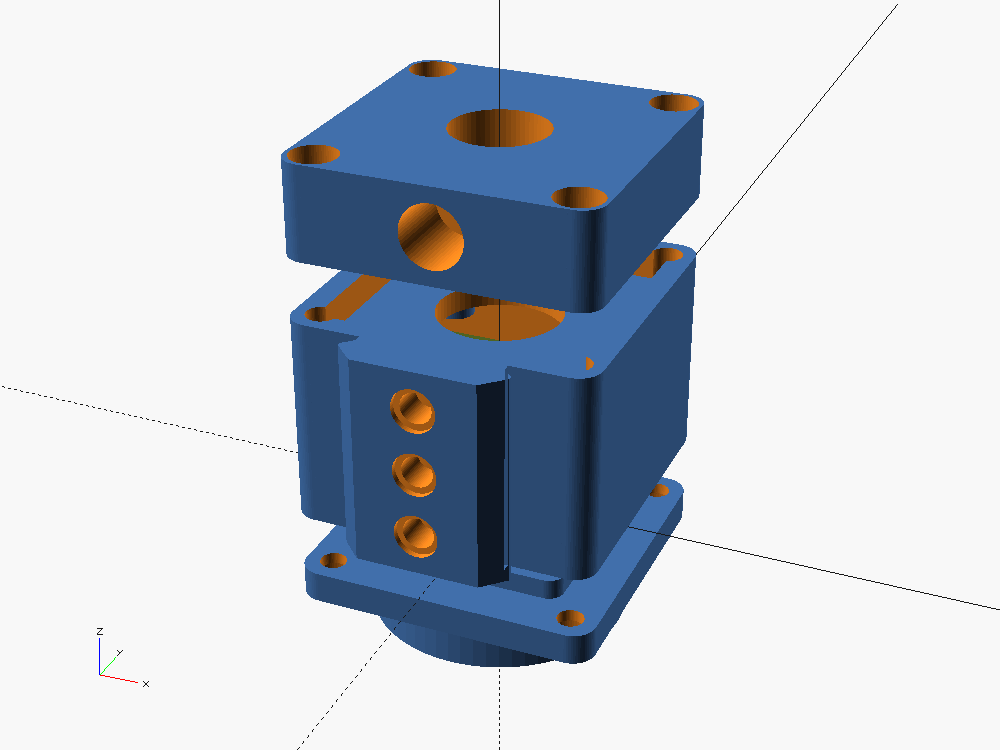
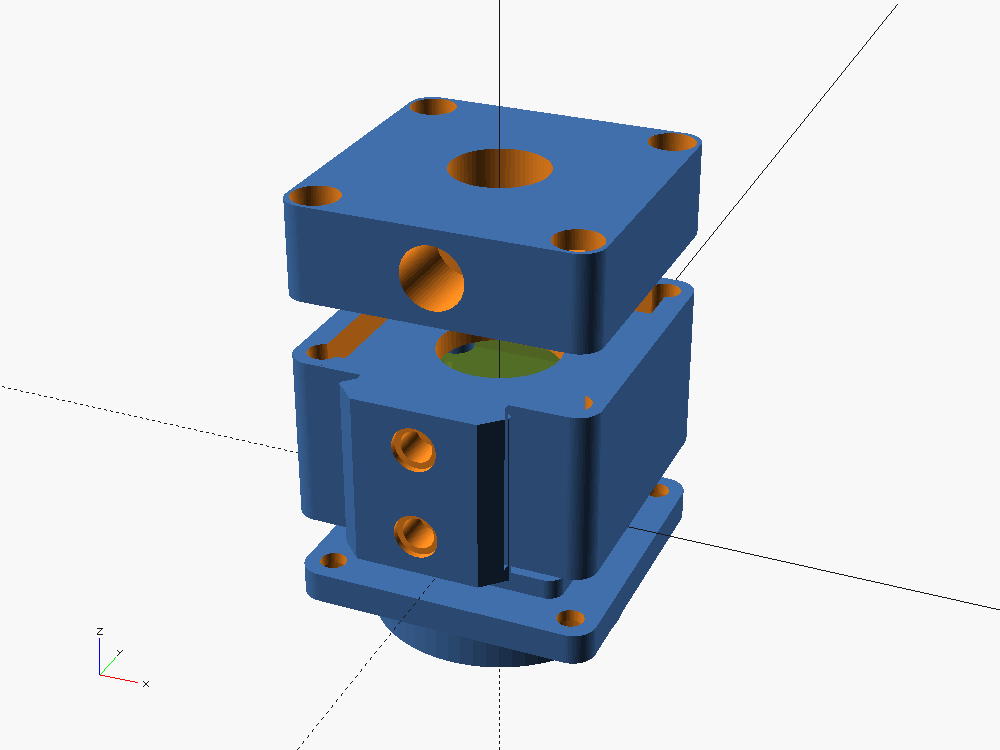
fix: variant TOML overrides never reached the geometry
Generated variant stubs do `include params -> re-assign the TOML params ->
include dispatch`, but dispatch.scad pulls part modules with `use <body.scad>`
and each part file self-includes params.scad. OpenSCAD resolves a used
module's free variables against its own definition scope, so the parts always
saw params.scad DEFAULTS, not the stub's overrides.

`params.scad`'s echo() runs in the stub scope and printed the right numbers,
which masked it. `-D` on the CLI is applied globally and does reach used
modules. `make check` only passed `-D part=...`, so it never caught this.

Impact:
- generic_29mm_cs body rendered at the C-mount length (26.626, should be
  21.626) — every CS build's back-focus stack was 5 mm out.
- generic_29mm_c_ring rendered a printed thread instead of the captured-ring
  pocket (8072 vs 6264 facets).
- achromat_12mm_c (lens) rendered at lens defaults, ignoring element_d /
  filter_thread / etc.
- vibrometer_80mm (receiver) was spared only because its TOML happens to
  match the receiver defaults.

Fix (Option A): tools/gen.py emits each variant's overrides as `-D` flags
(DFLAGS_<name> in build/components.mk); the Makefile passes them on every
openscad call — STL rule, PNG rule, and the check loop (now a $(foreach) so
make can resolve the per-variant flags). Stub re-assignments stay for the
Customizer. CLAUDE.md #4, docs/modularity.md and docs/components.md corrected.

Guard: `make check` gains check-overrides — renders C and CS body and fails
[…]

Changed region(s): [[0.279, 0.0613, 0.713, 0.6747]]

diff --git a/tools/gen.py b/tools/gen.py
@@ -132,6 +132,25 @@ def variant_scad(comp: dict, types: dict[str, dict]) -> str:
     return "\n".join(lines)
 
 
+def dflags(params: dict) -> str:
+    """The variant's TOML overrides as openscad -D flags.
+
+    The generated stub re-assigns these in its own scope, but `dispatch.scad`
+    pulls the part modules with `use <...>` and OpenSCAD resolves a used
+    module's free variables against ITS definition scope (the part file's own
+    `include <params.scad>` defaults) — so a plain re-assignment never reaches
+    the geometry. `-D` is applied globally and does reach it, so the Makefile
+    passes these on every render. See docs/modularity.md.
+    """
+    flags = []
+    for key, val in params.items():
+        lit = scad_literal(val)
+        if "'" in lit:
+            raise GenError(f"param {key}={val!r}: single quote unsupported in -D flags")
+        flags.append(f"-D '{key}={lit}'")
+    return " ".join(flags)
+
+
 def components_mk(comps: list[dict], types: dict[str, dict]) -> str:
     out = ["# GENERATED by tools/gen.py — do not edit. Run `make gen`.", ""]
     out.append("ALL_VARIANTS := " + " ".join(c["name"] for c in comps))
@@ -147,9 +166,10 @@ def components_mk(comps: list[dict], types: dict[str, dict]) -> str:
         out.append(f"CHECKPARTS_{n} := " + " ".join(t["check_parts"]))
         out.append(f"PREVIEW_CAM_{n} := {t['preview_cam']}")
         out.append(f"TITLE_{n} := {c['title']}")
+        out.append(f"DFLAGS_{n} := {dflags(c['params'])}")
         out.append("")
         jobs += [f"{n}/{p}" for p in t["check_parts"]]
-    # <variant>/<part> tokens for the `make check` shell loop
+    # <variant>/<part> tokens the `make check` $(foreach) loop expands
     out.append("CHECK_JOBS := " + " ".join(jobs))
     out.append("")
     return "\n".join(out)

diff --git a/docs/modularity.md b/docs/modularity.md
@@ -84,6 +84,24 @@ size, hole pitch, mount type/style, gland), run `make gen`, then `make <name>`. 
 
 `params.scad` uses **plain assignments** so the OpenSCAD Customizer works. A generated
 variant stub does `include <../lib/camera/params.scad>` **first**, then re-assigns the few
-parameters the TOML pins, then `include <../lib/camera/dispatch.scad>`. OpenSCAD's "last
-assignment wins" rule makes the override stick. On the command line, `-D 'name=value'`
-beats both.
+parameters the TOML pins, then `include <../lib/camera/dispatch.scad>`.
+
+That re-assignment alone does **not** reach the geometry. `dispatch.scad` pulls the part
+modules with `use <body.scad>` etc., and OpenSCAD resolves a `use`d module's free
+variables (`body_length`, `outer_x`, `mount_type`, the whole derived stack…) against **its
+own definition scope** — i.e. the *defaults* from that part file's own
+`include <params.scad>` — not the stub's scope. A `-D name=value` on the command line is
+applied globally and *does* reach `use`d modules.
+
+So the real path: `tools/gen.py` emits each variant's TOML overrides as `-D` flags
+(`DFLAGS_<name>` in `build/components.mk`) and the `Makefile` passes them on **every**
+`openscad` call — STL, preview PNG, and the `make check` loop. Any `openscad` you run by
+hand on a stub needs the same flags (`grep DFLAGS_<name> build/components.mk`), or just run
+it on `scad/camera.scad` with your own `-D`.
+
+The stub's in-file assignments keep it a valid Customizer target and feed `params.scad`'s
+own `echo`/`assert`s, but a live Customizer edit hits the same `use <>` scope wall — a
+fully faithful interactive Customizer would need the part files to stop self-including
+`params.scad` (left as future work). `make check` has a `check-overrides` guard that fails
+if the C and CS `body` render to the same length — which is exactly what happens if the
+`-D` flags stop being applied.

diff --git a/CLAUDE.md b/CLAUDE.md
@@ -28,8 +28,11 @@ For ad hoc CLI runs, set it yourself. BOSL2 is a git submodule (`make vendor` to
 3. **The module interface is law.** `scad/lib/interface.scad` defines the register + bolt
    pattern + Z convention shared by front/body/rear. New modules honour it — see
    `docs/modularity.md`.
-4. **`params.scad` uses plain assignments** so the Customizer works. Variants override by
-   `include params` → re-assign → `include dispatch`. CLI overrides via `-D`.
+4. **`params.scad` uses plain assignments** so the Customizer works. A variant's TOML
+   overrides reach the geometry only as `-D` flags — `tools/gen.py` bakes them into
+   `build/components.mk` (`DFLAGS_<name>`) and the `Makefile` passes them on every render.
+   The stub's in-file re-assignments are Customizer-only (they don't cross `use <>`; see
+   `docs/modularity.md`). `make check` guards this with `check-overrides`.
 5. **Parts must render 2-manifold individually.** The `assembly` view may not (coincident
    mating faces) — it's preview only, not for STL export.
 

diff --git a/docs/components.md b/docs/components.md
@@ -20,9 +20,9 @@ components/
 
 | File | Committed? | What |
 |---|---|---|
-| `scad/variants/<name>.scad` | yes | `include params` → overrides → `include dispatch` stub; the `make` / Customizer target |
+| `scad/variants/<name>.scad` | yes | `include params` → re-assign → `include dispatch` stub — the Customizer target (the `make` render path also passes `DFLAGS_<name>`, see modularity.md) |
 | `components.json` | yes | flat manifest of every type + component |
-| `build/components.mk` | no (git-ignored) | `ALL_VARIANTS`, `PARTS_<name>`, `PREVIEW_CAM_<name>`, `CHECK_JOBS`, … included by the `Makefile` |
+| `build/components.mk` | no (git-ignored) | `ALL_VARIANTS`, `PARTS_<name>`, `PREVIEW_CAM_<name>`, `CHECK_JOBS`, `DFLAGS_<name>` (the TOML overrides as `-D` flags), … included by the `Makefile` |
 | `README.md` (between `<!-- … GENERATED:components … -->`) | yes | the component tables |
 
 Run `make gen` after editing any TOML. `make` and `make check` run it automatically;
